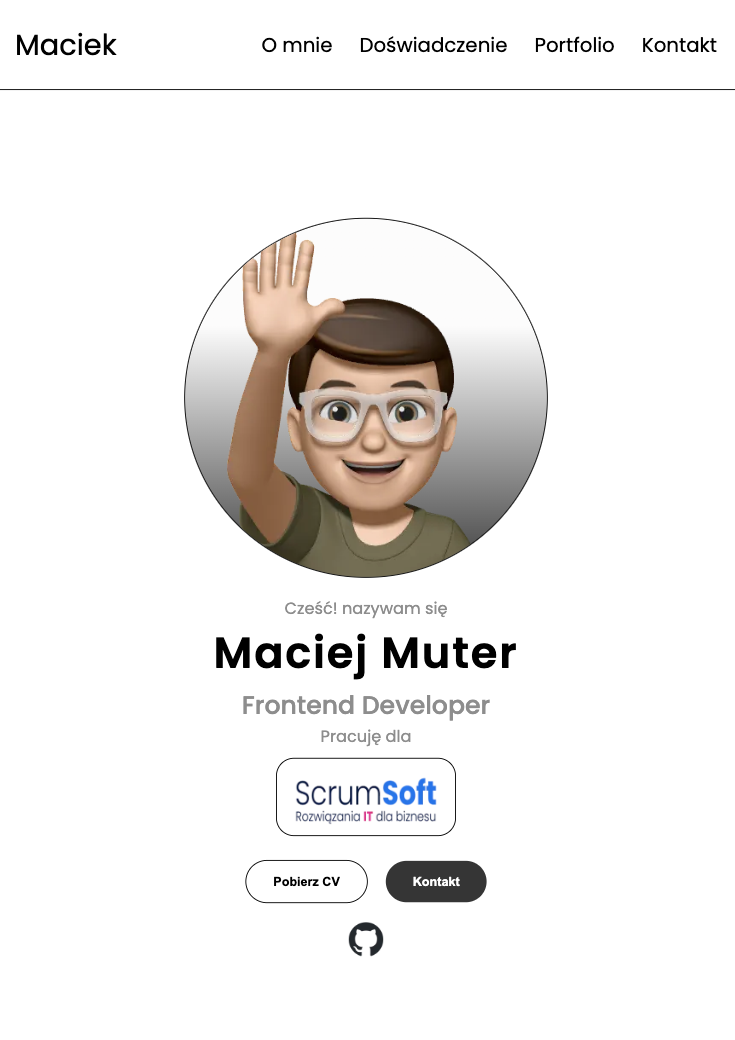
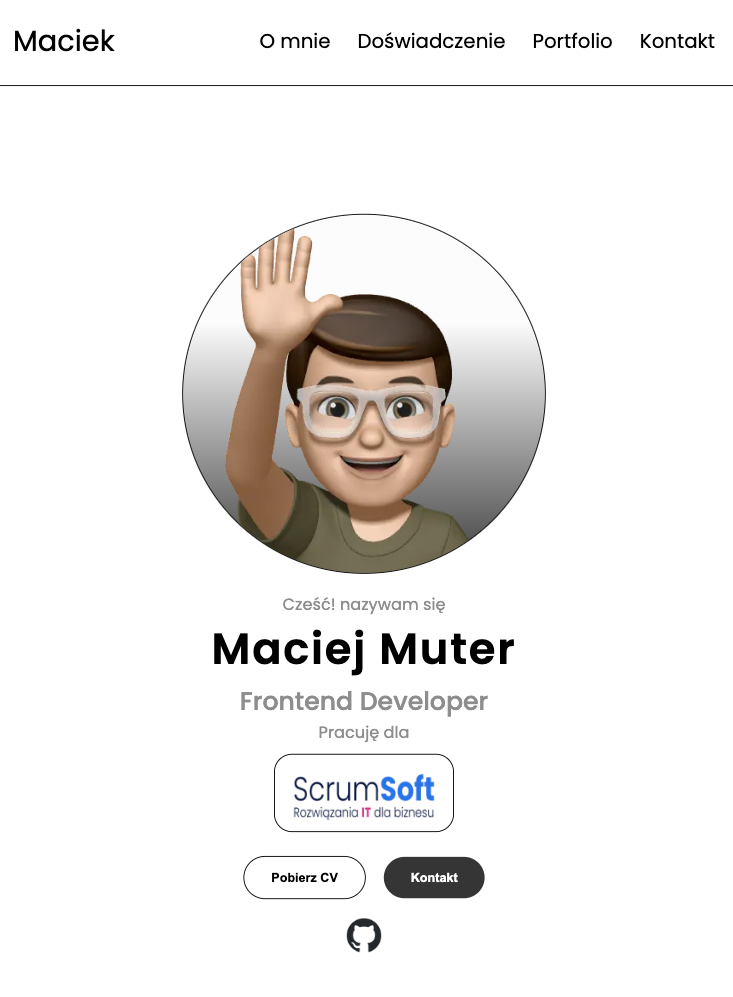
fix google

diff --git a/src/components/Header/Header.tsx b/src/components/Header/Header.tsx
@@ -6,20 +6,23 @@ export const Header = () => {
   return (
     <header className={style.header} data-aos="fade-down" data-aos-delay="400">
       <h1>Maciek</h1>
-      <ul>
-        <ScrollLink href={"#AboutMe"}>
-          <li> O mnie</li>
+      <div className={style.list}>
+        <ScrollLink href={"#AboutMe"} aria-label="Informacje o mnie">
+          <p>O mnie</p>
         </ScrollLink>
-        <ScrollLink href={"#Skills"}>
-          <li>Doświadczenie</li>
+        <ScrollLink href={"#Skills"} aria-label="Technogogie które znam">
+          <p>Doświadczenie</p>
         </ScrollLink>
-        <ScrollLink href={"#Projects"}>
-          <li>Portfolio</li>
+        <ScrollLink href={"#Projects"} aria-label="Moje projekty">
+          <p>Portfolio</p>
         </ScrollLink>
-        <ScrollLink href={"#Contact"}>
-          <li>Kontakt</li>
+        <ScrollLink
+          href={"#Contact"}
+          aria-label="Adress mailowy i numer telefonu"
+        >
+          <p>Kontakt</p>
         </ScrollLink>
-      </ul>
+      </div>
       <ThemeSwitch />
     </header>
   );

diff --git a/src/components/Header/Header.module.scss b/src/components/Header/Header.module.scss
@@ -7,35 +7,34 @@
   padding: 0 20px;
   margin: 0 auto;
   border-bottom: 1px solid var(--second);
-  // box-shadow: var(--shadow-box);
 
   @media (min-width: 1200px) {
     padding: 0 150px;
   }
 
-  ul {
+  .list {
     display: flex;
     gap: 30px;
     list-style: none;
-  }
 
-  li {
-    cursor: pointer;
-    position: relative;
-    font-size: 22px;
-    color: var(--text);
-    text-decoration: none;
+    p {
+      cursor: pointer;
+      position: relative;
+      font-size: 22px;
+      color: var(--text);
+      text-decoration: none;
 
-    @media (max-width: 800px) {
-      font-size: 18px;
-    }
+      @media (max-width: 800px) {
+        font-size: 18px;
+      }
 
-    @media (max-width: 700px) {
-      font-size: 14px;
-    }
+      @media (max-width: 700px) {
+        font-size: 14px;
+      }
 
-    @media (max-width: 600px) {
-      display: none;
+      @media (max-width: 600px) {
+        display: none;
+      }
     }
   }
 

diff --git a/src/components/Footer/Footer.tsx b/src/components/Footer/Footer.tsx
@@ -4,17 +4,17 @@ import style from "./Footer.module.scss";
 const Footer = () => {
   return (
     <footer className={style.footer}>
-      <ul>
-        <Link href={"#AboutMe"}>
-          <li> O mnie</li>
+      <div className={style.list}>
+        <Link href={"#AboutMe"} aria-label="Informacje o mnie">
+          <p> O mnie</p>
         </Link>
-        <Link href={"#Skills"}>
-          <li>Doświadczenie</li>
+        <Link href={"#Skills"} aria-label="Technogogie które znam">
+          <p>Doświadczenie</p>
         </Link>
-        <Link href={"#Projects"}>
-          <li>Portfolio</li>
+        <Link href={"#Projects"} aria-label="Moje projekty">
+          <p>Portfolio</p>
         </Link>
-      </ul>
+      </div>
     </footer>
   );
 };

diff --git a/style/globals.css b/style/globals.css
@@ -1,7 +1,7 @@
 :root {
   --main: #ffff;
   --second: #000000;
-  --gray-light: #8d8d8d;
+  --gray-light: #757575;
   --gray-dark: #353535;
   --text: black;
   --shadow-box: none;
@@ -16,7 +16,7 @@
 [data-theme="dark"] {
   --main: black;
   --second: #00ff4c;
-  /* --gray-light: #03a634; */
+  --gray-light: #03a634;
   --gray-dark: #028d2b;
   --text: #ffff;
   --shadow-box: inset 0 0 0 #fff, 0 0 10px var(--second),
@@ -41,6 +41,10 @@ body {
   overflow-x: hidden;
   background: var(--main);
   transition: 0.8s;
+}
+
+html {
+  scroll-behavior: smooth;
 }
 
 body {

diff --git a/src/components/Footer/Footer.module.scss b/src/components/Footer/Footer.module.scss
@@ -7,22 +7,22 @@
   padding: 0 20px;
   margin: 0 auto;
 
-  ul {
+  .list {
     display: flex;
     gap: 30px;
     list-style: none;
+
+    p {
+      cursor: pointer;
+      position: relative;
+      font-size: 22px;
+      color: var(--text);
+    }
 
     @media (max-width: 568px) {
       margin-top: 50px;
       flex-direction: column;
     }
-  }
-
-  li {
-    cursor: pointer;
-    position: relative;
-    font-size: 22px;
-    color: var(--text);
   }
 
   a {

diff --git a/src/components/Profile/Profile.tsx b/src/components/Profile/Profile.tsx
@@ -12,8 +12,8 @@ export const Profile = () => {
         className={style.memoji}
         src={"/images/7f776081be1f74b87c17ae40bd0ba79e-sticker.png"}
         alt={"memoji"}
-        width={400}
-        height={400}
+        width={398}
+        height={398}
       />
       <div>
         <p>Cześć! nazywam się</p>

diff --git a/src/components/Contact/Contact.tsx b/src/components/Contact/Contact.tsx
@@ -12,8 +12,8 @@ const Contact = () => {
       <div className={style.container}>
         <Image
           src={"/images/contact.png"}
-          width={400}
-          height={400}
+          width={398}
+          height={398}
           alt={"memoji"}
           className={style.memoji}
         />

diff --git a/app/page.tsx b/app/page.tsx
@@ -29,9 +29,7 @@ export default function Home() {
       <Container>
         <Skills />
       </Container>
-      {/* <Container> */}
       <Projects />
-      {/* </Container> */}
       <Slider
         slideData={[
           {

diff --git a/app/layout.tsx b/app/layout.tsx
@@ -7,6 +7,7 @@ import { Providers } from "@/components/Provider/Provider";
 export const metadata = {
   title: "Moje portfolio",
   description: "Moje portfolio - Maciej Muter",
+  lang: "pl",
 };
 
 const poppins = Poppins({
